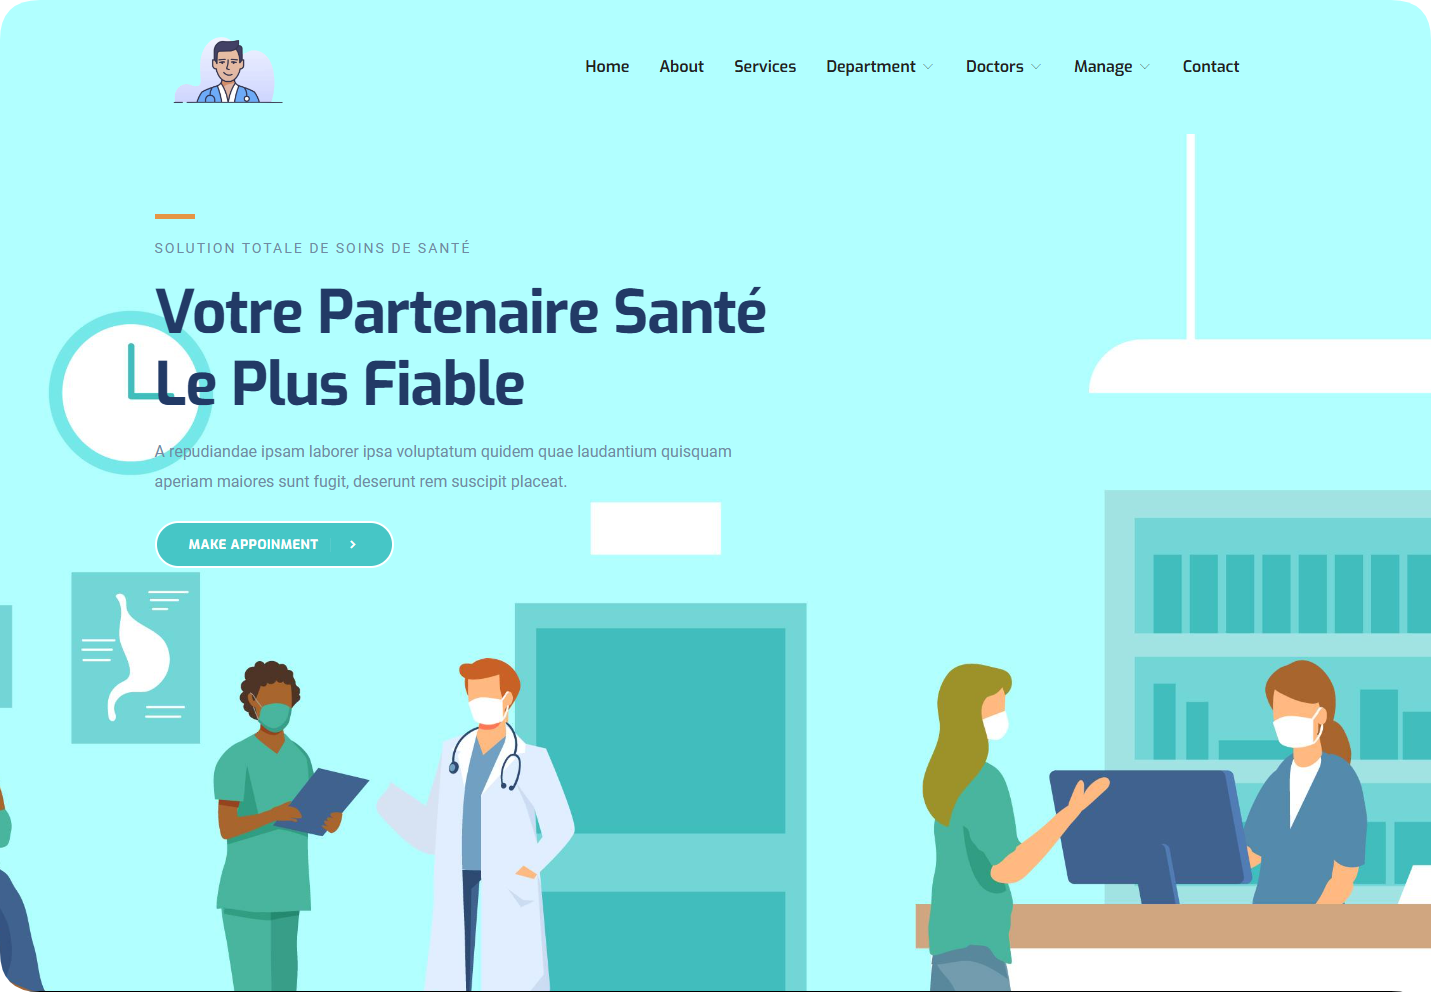
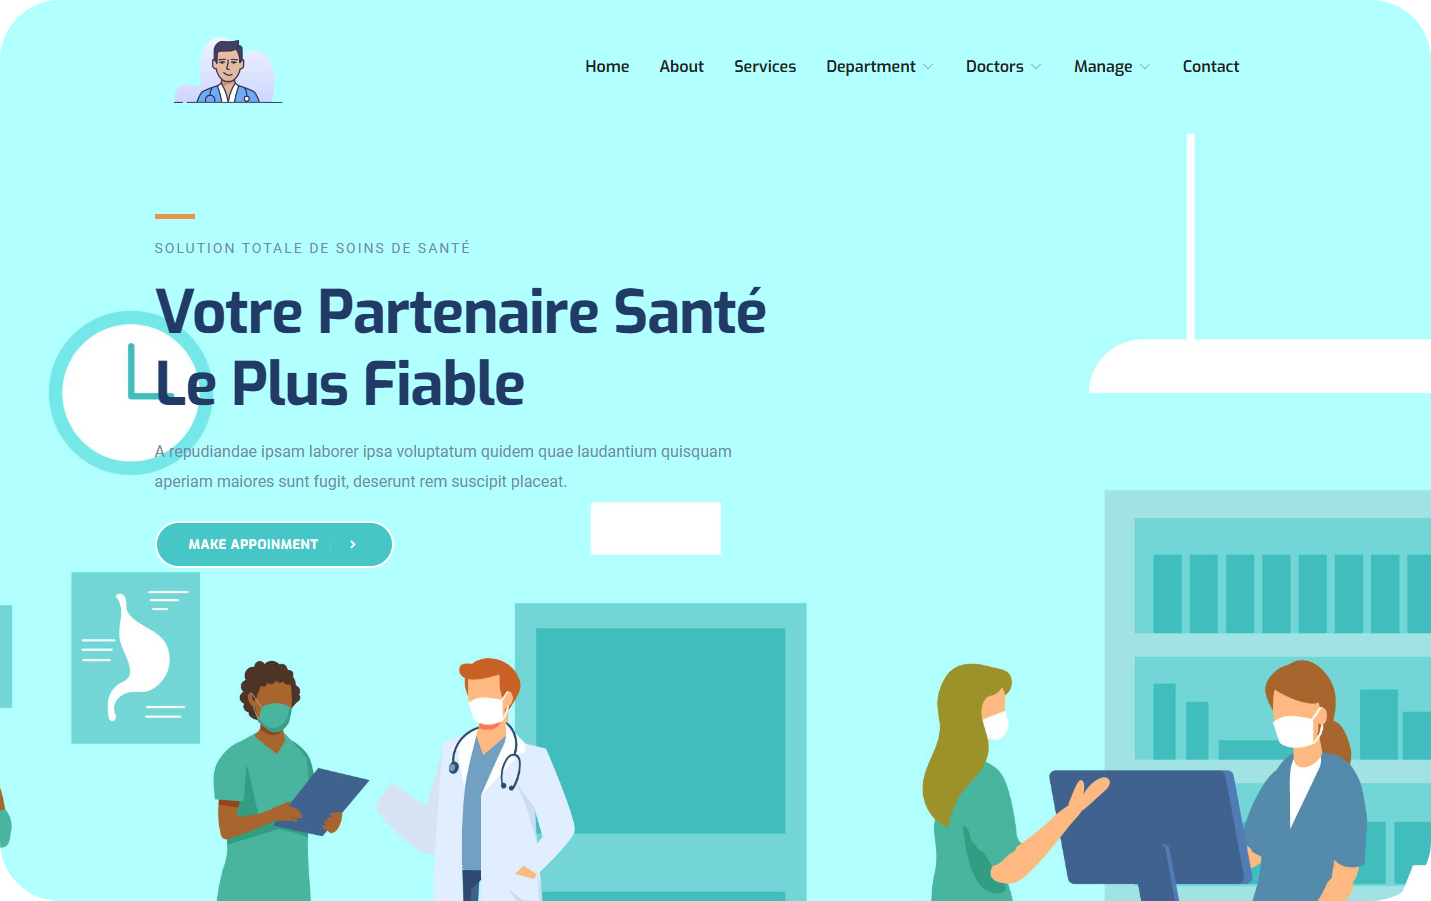
Work update

diff --git a/src/pages/Work.jsx b/src/pages/Work.jsx
@@ -1,10 +1,14 @@
-import { useState } from "react";
+// import { useState } from "react";
 import ProjectCard from '../component/cards/ProjectCard';
 
 // Import your images
 import i1 from '../assets/projects/i1.png';
 import i2 from '../assets/projects/i2.png';
 import i3 from '../assets/projects/i3.png';
+import b from '../assets/projects/b.png';
+import dash from '../assets/projects/dash.png';
+import chat from '../assets/projects/chat.png';
+
 
 function Work() {
   const projects = [
@@ -23,66 +27,68 @@ function Work() {
     },
     {
       id: 2,
-      title: "Inventory Management System",
+      title: "AI chatbot PaLM 2 ",
       description: [
-        "A system to track inventory levels and orders.",
-        "Includes features for generating reports.",
-        "Built for small to medium-sized businesses.",
-        "Utilizes a MERN stack."
+        "Built with PaLM 2 for advanced AI responses.",
+        "Excels in multilingual support, reasoning, and coding.",
+        "ntegrated into various tools for accessibility.",
+        "Utilizes APIs for seamless user interactions.",
+        "Designed for scalability and high performance."
+        
       ],
-      images: [i1, i2, i3],
-      technologies: ["MongoDB", "Express.js", "React", "Node.js"],
+      images: [chat],
+      technologies: ["ReactJS", "TailwindCSS", "Typescript","Python","MongoDB"],
       githubLink: "https://github.com/yourusername/inventory-management",
     },
     {
       id: 3,
-      title: "Task Management App",
+      title: "Admin Dashboard",
       description: [
-        "An application to manage personal tasks and projects.",
-        "Features task categorization and reminders.",
-        "Optimized for both web and mobile usage.",
-        "Developed using React and Firebase."
+        "The Admin Dashboard manages system data efficiently.",
+        "It displays key metrics using charts and tables.",
+        "Designed for admins to oversee operations seamlessly."
+        
       ],
-      images: [i1, i2, i3],
-      technologies: ["React", "Firebase", "CSS"],
+      images: [dash],
+      technologies: ["Html", "Tailwindcss","Bootstrap", "Javascript", "php", "MySQL", "Python" ],
       githubLink: "https://github.com/yourusername/task-manager",
     },
     {
       id: 4,
-      title: "E-Commerce Website",
+      title: "---------------------",
       description: [
-        "A full-featured e-commerce platform.",
-        "Includes product listings, a shopping cart, and user accounts.",
-        "Responsive design for mobile and desktop users.",
-        "Powered by a MERN stack."
+        "---------------------------",
+        "-----------------------------------------",
+        "------------------------------------------------------",
+        "-----------------------------------"
       ],
-      images: [i1, i2, i3],
+      images: [b],
       technologies: ["MongoDB", "Express.js", "React", "Node.js"],
       githubLink: "https://github.com/yourusername/e-commerce",
     },
     {
       id: 5,
-      title: "Social Media Platform",
+      title: "---------------------",
       description: [
-        "A platform for connecting with friends and sharing updates.",
-        "Features include profiles, messaging, and notifications.",
-        "Built with React and a RESTful API.",
-        "Focus on user experience and scalability."
+        "---------------------------",
+        "-----------------------------------------",
+        "------------------------------------------------------",
+        "-----------------------------------"
       ],
-      images: [i1, i2, i3],
+      images: [b],
       technologies: ["React", "Node.js", "Express.js"],
       githubLink: "https://github.com/yourusername/social-media",
     },
     {
       id: 6,
-      title: "Blog Application",
+      title: "---------------------",
       description: [
-        "A blogging platform for writers to share their thoughts.",
-        "Supports rich text formatting and media uploads.",
-        "Includes user authentication and commenting.",
-        "Built with React and Firebase."
+        "---------------------------",
+        "-----------------------------------------",
+        "------------------------------------------------------",
+        "-----------------------------------"
       ],
-      images: [i1, i2, i3],
+      images: [b],
       technologies: ["React", "Firebase", "CSS"],
       githubLink: "https://github.com/yourusername/blog-app",
     },
@@ -90,9 +96,9 @@ function Work() {
   ];
 
   return (
-    <div className="w-[70%] mx-auto p-8 mt-52 ">
-      <h2 className="text-2xl font-bold text-white mb-4"> Work</h2>
-      <div className="grid grid-cols-1 sm:grid-cols-1 md:grid-cols-2 2xl:grid-cols-3 gap-6">
+    <div className="w-[80%] mx-auto p-8 mt-52 gap-6">
+      <h2 className="text-2xl font-bold text-white mb-6"> Work</h2>
+      <div className=" w-auto grid grid-cols-1 sm:grid-cols-1 md:grid-cols-2 2xl:grid-cols-3 ">
         {projects.map((project) => (
           <ProjectCard
             key={project.id}

diff --git a/src/layouts/Section1/Section1.jsx b/src/layouts/Section1/Section1.jsx
@@ -1,4 +1,5 @@
-import React, { useEffect, useState } from "react";
+/* eslint-disable react-hooks/exhaustive-deps */
+import { useEffect, useState } from "react";
 import logo from "/public/logo.png";
 
 const Section1 = () => {
@@ -28,6 +29,7 @@ const Section1 = () => {
                   setDisplayText(() => texts[textIndex].slice(0, charIndex + 1));
               } else {
                   // Start erasing after a delay
+                  // eslint-disable-next-line no-unused-vars
                   const eraseTimeout = setTimeout(() => {
                     setIsErasing(true);
                   }, 2000);
@@ -43,14 +45,15 @@ const Section1 = () => {
             <div
                 style={{
                     border: "1px solid #3b3b3b",
-                    backgroundColor: "#0e0e0e",
+                    backgroundColor: "black",
                     zIndex: "11",
                     position: "relative",
                 }}
-                className="row-span-1 md:row-span-7 lg:row-span-4 2xl:row-span-4 h-full text-center text-white rounded-2xl"
+                className=" row-span-1 md:row-span-7 lg:row-span-4 2xl:row-span-4 h-full text-center text-white rounded-2xl"
             >
-                <div className="flex items-center justify-start gap-8 p-16 pt-24 w-full">
-                    <img
+                <div className=" flex items-center justify-start gap-8 p-16 pt-24 w-full">
+                    <img style={{boxShadow: "0 4px 7px rgba(128, 128, 128, 0.4), 0 8px 30px rgba(128, 128, 128, 0.15)", borderRadius: "50%"
+}}
                         className="hover:scale-[1.1] transition-all ease-linear duration-200"
                         src={logo}
                         width={"80px"}
@@ -70,7 +73,7 @@ const Section1 = () => {
             <div
                 style={{
                     border: "1px solid #3b3b3b",
-                    backgroundColor: "#0e0e0e",
+                    backgroundColor: "black",
                     zIndex: "10",
                 }}
                 className="text-center text-white/90 rounded-2xl xl:row-span-6 md:row-span-9"
@@ -95,7 +98,7 @@ const Section1 = () => {
                 style={{
                     border: "1px solid #3b3b3b",
                     overflow: "hidden",
-                    backgroundColor: "#0e0e0e",
+                    backgroundColor: "black",
                     zIndex: "10",
                 }}
                 className="bg-tahiti flex text-center text-white 2xl:row-span-3 md:row-span-8 row-span-9 rounded-xl"
@@ -104,7 +107,7 @@ const Section1 = () => {
             <div
                 style={{
                     border: "1px solid #3b3b3b",
-                    backgroundColor: "#0e0e0e",
+                    backgroundColor: "black",
                     zIndex: "10",
                 }}
                 className="bg-tahiti text-center text-white rounded-2xl 2xl:row-span-8 md:row-span-9 h-full"
@@ -132,7 +135,7 @@ const Section1 = () => {
             <div
                 style={{
                     border: "1px solid #3b3b3b",
-                    backgroundColor: "#0e0e0e",
+                    backgroundColor: "black",
                     zIndex: "10",
                 }}
                 className="bg-tahiti text-center text-white rounded-2xl 2xl:row-span-7 md:row-span-9 h-full"
@@ -160,7 +163,7 @@ const Section1 = () => {
             <div
                 style={{
                     border: "1px solid #3b3b3b",
-                    backgroundColor: "#0e0e0e",
+                    backgroundColor: "black",
                     zIndex: "0",
                 }}
                 className="bg-tahiti text-center text-white 2xl:row-span-5 md:row-span-6 rounded-2xl"

diff --git a/src/component/cards/ProjectCard.jsx b/src/component/cards/ProjectCard.jsx
@@ -1,6 +1,17 @@
+/* eslint-disable no-unused-vars */
+/* eslint-disable react/prop-types */
 import { useState } from "react";
+import left from '../../assets/projects/left.png';
+import right from '../../assets/projects/right.png';
+import link from '../../assets/projects/link.png';
 
-const ProjectCard = ({ title, images, description, technologies, githubLink }) => {
+const ProjectCard = ({
+  title,
+  images,
+  description,
+  technologies,
+  githubLink,
+}) => {
   const [currentImage, setCurrentImage] = useState(0);
 
   const handlePreviousImage = () => {
@@ -12,45 +23,57 @@ const ProjectCard = ({ title, images, description, technologies, githubLink }) =
   };
 
   return (
-    <div className="max-w-sm mx-auto bg-tahiti rounded-lg overflow-hidden shadow-lg border border-white/15">
+    <div className="max-w-[28rem] mx-auto mb-10  rounded-lg overflow-hidden shadow-lg border border-white/15">
       <div className="relative">
         <img
           src={images[currentImage]}
           alt="Project"
-          className="w-full p-4 rounded-lg h-50 object-cover"
+          className="w-[97%] mx-auto p-4 rounded-lg h-50 object-cover"
         />
         <div className="absolute top-0 left-0 right-0 flex justify-between p-2">
-          <button style={{border:'1px solid #6b6b6b'}}
-            className="bg-black/80 hover:bg-black text-white font-bold py-2 px-3 rounded-lg mt-20"
+          <button
+            style={{ border: "1px solid #6b6b6b" }}
+            className="bg-black/80 hover:bg-black text-white font-bold py-2 px-3 rounded-md mt-28"
             onClick={handlePreviousImage}
           >
-            &lt; {/* Left arrow */}
+            <img className="w-3 h-2 mt-2 mb-2" src={left}  alt="" />
           </button>
-          <button style={{border:'1px solid #6b6b6b'}}
-            className="bg-black/80 hover:bg-black text-white font-bold py-2 px-3   rounded-lg mt-20 "
+          <button
+            style={{ border: "1px solid #6b6b6b" }}
+            className="bg-black/80 hover:bg-black text-white font-bold py-2 px-3 rounded-md mt-28 "
             onClick={handleNextImage}
           >
-            &gt; {/* Right arrow */}
+             <img className="w-3 h-2 mt-2 mb-2" src={right} alt="" />
           </button>
         </div>
       </div>
       <div className="p-4">
         <h3 className="text-2xl font-bold text-white mb-2">{title}</h3>
         {description.map((para, index) => (
-          <p key={index} className="text-white mb-2 flex items-start">
-            <span className="dot text-white mr-2">•</span> {/* Added margin-right for spacing */}
+          <p key={index} className="text-white  mb-2 flex items-start">
+            <span className="dot text-white ml-3 mr-3">•</span>{" "}
+            {/* Added margin-right for spacing */}
             <span>{para}</span> {/* Wrapped text in a span for alignment */}
           </p>
         ))}
-        <div className="flex flex-wrap gap-2 mt-2 ">
+        <div className="flex flex-wrap gap-2 mt-4 mb-10">
           {technologies.map((tech, index) => (
-            <span key={index} className="bg-white/20 text-white text-xs font-semibold px-2 py-1 rounded-full">
+            <span
+              key={index}
+              className="bg-white/20 text-white text-xs font-semibold px-2 py-1 rounded-full"
+            >
               {tech}
             </span>
           ))}
         </div>
-      
+        <button className="flex items-center text-white w-fit font-medium border-[1px] border-white/15 p-3 rounded-xl">
+  GitHub 
+  <span className="ml-3">
+    <img className="size-5" src={link} alt="GitHub Icon" />
+  </span>
+</button>
       </div>
+      
     </div>
   );
 };

diff --git a/src/component/Main/Main.jsx b/src/component/Main/Main.jsx
@@ -43,11 +43,11 @@ const Main = () => {
       </div>
       <div className="flex justify-center items-center h-48 mb-100px">
         <div className="space-x-4 2xl:mt-16 md:mt-24">
-          <button className="px-6 py-3  bg-green text-white font-semibold rounded-lg shadow-md hover:bg-blue-600 transition ease-in-out duration-300">
+          <button className="px-6 py-3  bg-[#919191] text-white font-semibold rounded-lg shadow-md hover:bg-blue-600 transition ease-in-out duration-300">
             <a href="mailto:your-anaskalkhi123@gmail.com">Hire Me</a>
           </button>
 
-          <button className="px-6 py-3   mb-3 bg-white text-gray-800 font-semibold rounded-lg shadow-md hover:bg-gray-200 transition ease-in-out duration-300">
+          <button className="px-6 py-3  font-bold mb-3 bg-white text-gray-800  rounded-lg shadow-md hover:bg-gray-200 transition ease-in-out duration-300">
             Document
           </button>
         </div>

diff --git a/src/index.css b/src/index.css
@@ -13,7 +13,7 @@ html, body {
   padding: 0; /* Remove default padding */
   /* background: linear-gradient(135deg, #000000, #2e2e2e); Gradient from black to dark gray */
   background-size: cover; 
-  background: linear-gradient(90deg, #000000 30%, #292929); /* Ensures the gradient covers the entire background */
+  background: linear-gradient(90deg, #000000 40%, #1b1b1b); /* Ensures the gradient covers the entire background */
   background-attachment: fixed; /* Keeps the background fixed during scrolling */
 /* Ensures padding is included in height */
 }
